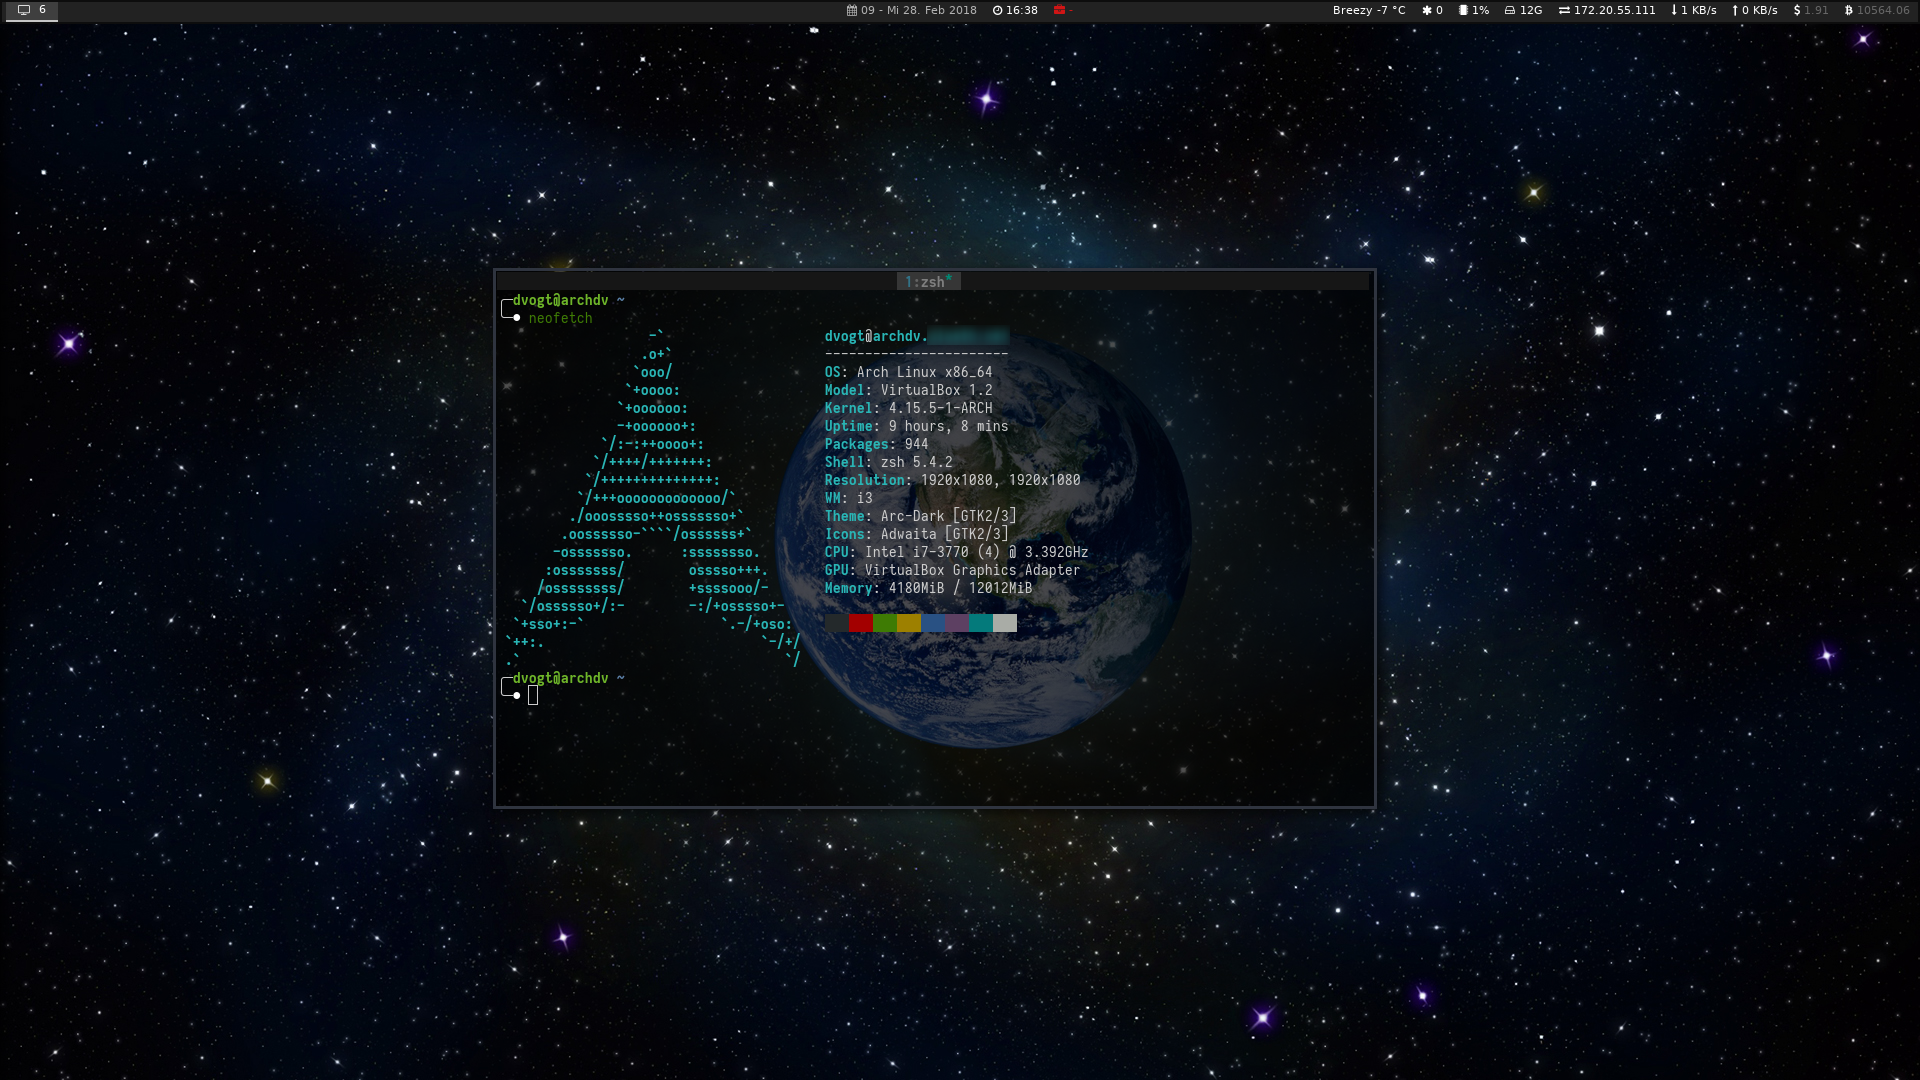
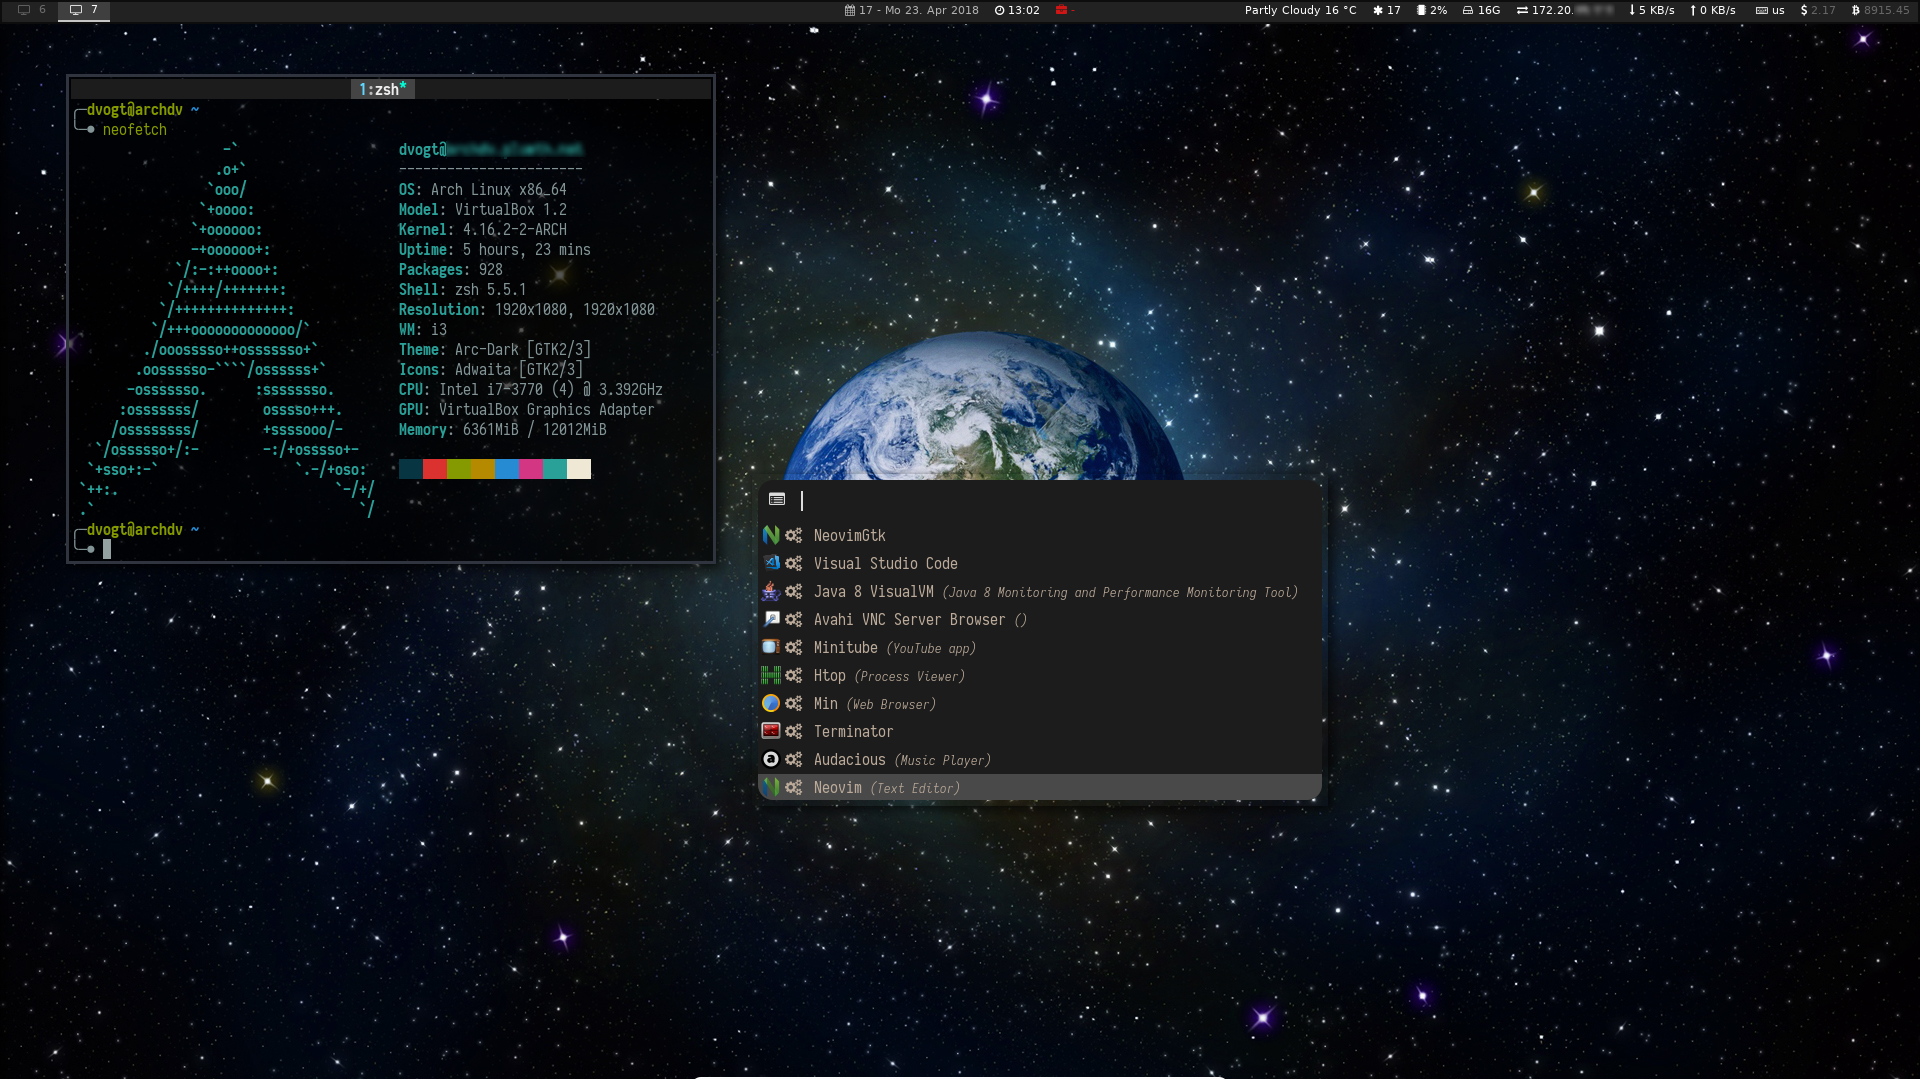
README calcurse rofi

diff --git a/README.md b/README.md
@@ -3,12 +3,13 @@
 ##### Summary
 | OS       | Arch Linux x86_64 |
 | -------- | ----------------- |
-| Shell    | zsh 5.4.2         |
-| WM       | i3                |
+| Shell    | [zsh](https://github.com/zsh-users/zsh) 5.4.2         |
+| WM       | [i3-gaps](https://github.com/Airblader/i3)           |
 | Theme    | Arc-Dark [GTK2/3] |
 | Icons    | Adwaita [GTK2/3]  |
-| Terminal | terminator        |
-| Font     | Iosevka           |
+| Terminal | [st - LukeSmith](https://github.com/LukeSmithxyz/st)        |
+| Font     | [Iosevka](https://be5invis.github.io/Iosevka/)           |
+| Rofi     | [Spoti](https://github.com/dvogt23/dotfiles/blob/master/config/rofi/spoti.rasi)           |
 ---
 ##### Screenshot
 ![Screenshot][screenshot]
